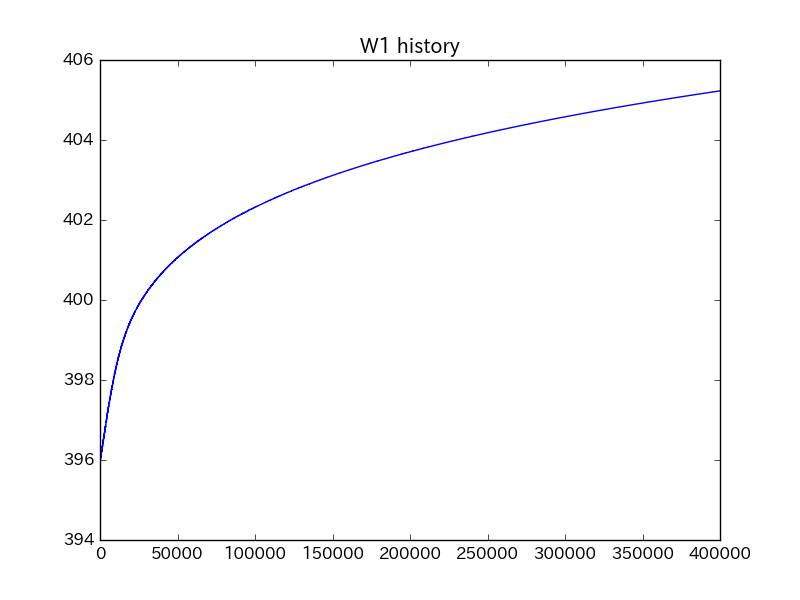
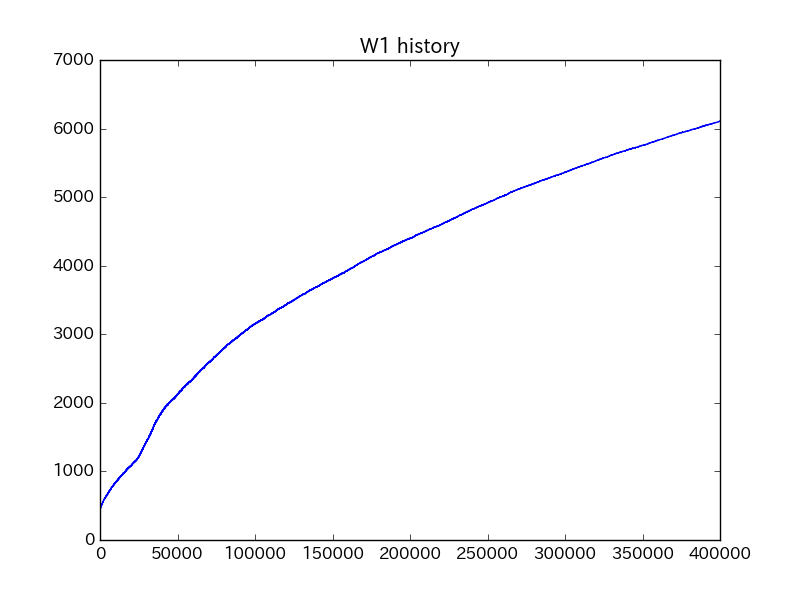
データをシャッフルするように修正

diff --git a/n-ken/mps20160723.py b/n-ken/mps20160723.py
@@ -1,28 +1,54 @@
 import numpy as np
 
-# sigmoid関数の定義
 def sigmoid(s):
+    '''
+    sigmoid関数
+    '''
     return 1 / (1 + np.exp(-s))
 
+def relu(s):
+    '''
+    relu
+    '''
+
+    return max(s, 0)
+
+relu = np.vectorize(relu)
+
 def d_sigmoid(s):
-    return y * (1 - y)
+    '''
+    sigmoid関数の微分
+    '''
+    return s * (1 - s)
+
+def d_relu(s):
+    return 1 if s > 0 else 0
+
+d_relu = np.vectorize(d_relu)
 
 def se(t, y):
+    '''
+    損失関数
+    '''
     return ((t - y).T @ (t - y)).flatten()[0] / 2
 
 def d_se(t, y):
+    '''
+    損失関数の微分
+    '''
     return -(t - y)
 
 def ma(history, n):
+    '''
+    移動平均
+    '''
     return np.array([0, ] * (n - 1) + \
             [np.average(history[(i - n): i]) for i in range(n, len(history) + 1)])
 
-x = np.random.randn(3, 1)
-W = np.random.randn(1, 3)
-b = np.random.randn(1, 1)
-y = sigmoid(W @ x + b)
-
 class Layer:
+    '''
+    ニューラルネットワークのレイヤークラス
+    '''
     def __init__(self, W, b, f):
         self._W = W
         self._b = b
@@ -41,69 +67,89 @@ if __name__ == '__main__':
     # データの読み込み
     train = pd.read_csv("train.csv")
     X_train = (train.drop(["label"], axis=1).values).astype(np.float) / 255
+
+    # 教師データのバイナライズ
     binarizer = LabelBinarizer()
     y_train = binarizer.fit_transform(train.label).astype(float)
 
-    # input layer
+    # 入力画像の次元を定義
     n_output_0 = X_train.shape[1]
 
     # layer 1
+    # - ユニット数: 200
     n_output_1 = 200
     W1 = np.random.randn(n_output_1, n_output_0)
     b1 = np.random.randn(n_output_1, 1)
+    # layer1 = Layer(W1, b1, relu)
     layer1 = Layer(W1, b1, sigmoid)
 
     # output layer
+    # - 出力層が10ユニット(10クラス分類のため)
     n_output_2 = 10
     W2 = np.random.randn(n_output_2, n_output_1)
     b2 = np.random.randn(n_output_2, 1)
+    # layer2 = Layer(W2, b2, relu)
     layer2 = Layer(W2, b2, sigmoid)
 
     # learning rate
     epsilon = 0.15
 
     # batch size
-    n_training_data = 1000 # X_train.shape[0]
+    n_training_data = 1000
+
+    # 学習の経過を保存するリスト
     se_history = []
     y1_history = []
     y2_history = []
     W1_history = []
     W2_history = []
     cpr_history = []
-    for loop in range(400):
-        for i in tqdm(range(n_training_data)):
 
-            # normalize and store w
+    for loop in range(400):
+
+        # データの並び替え
+        idx = np.random.permutation(X_train.shape[0])
+        X_train = X_train[idx, :]
+        y_train = y_train[idx, :]
+
+        for i in tqdm(range(j + n_training_data)):
+
+            # 重み行列のノルムの計算し、履歴リストに追加
             W1_history.append(np.linalg.norm(layer1._W))
             W2_history.append(np.linalg.norm(layer2._W))
 
-            # forward propagation
+            # 潤伝搬計算
             x = X_train[i, :].reshape(n_output_0, 1)
             y1 = layer1.propagate_forward(x)
             y2 = layer2.propagate_forward(y1)
 
-            # store y1 and y2
+            # 各層の(活性化関数適用後の)出力を履歴に追加
             y1_history.append(y1)
             y2_history.append(y2)
 
-            # t
+            # ネットワークの出力
             t = y_train[i, :].reshape(n_output_2, 1)
 
+            # 誤差を履歴リストに追加
             se_history.append(se(t, y2))
 
-            # back propagation
-            delta2 = d_se(t, y2) * d_sigmoid(y2)
-            delta1 = layer2._W.T @ delta2 * d_sigmoid(y1)
+            # 誤差逆伝播
+            delta2 = d_se(t, y2) * d_relu(y2)
+            delta1 = layer2._W.T @ delta2 * d_relu(y1)
+            # delta2 = d_se(t, y2) * d_sigmoid(y2)
+            # delta1 = layer2._W.T @ delta2 * d_sigmoid(y1)
 
-            # learning
+            # 第二層の重み行列について、偏微分*学習率を除算
             Delta_W2 = delta2 @ y1.T
             layer2._W -= epsilon * Delta_W2
             layer2._b -= epsilon * delta2
 
+            # 第一層の重み行列について、偏微分*学習率を除算
             Delta_W1 = delta1 @ x.T
             layer1._W -= epsilon * Delta_W1
             layer1._b -= epsilon * delta1
 
+        # 学習に使用していないデータから100個取り出し、Accuracyを計算する
         n_correct_prediction = 0
         n_prediction = 0
         for _i in np.random.choice(np.arange(n_training_data, X_train.shape[0]), 100):
